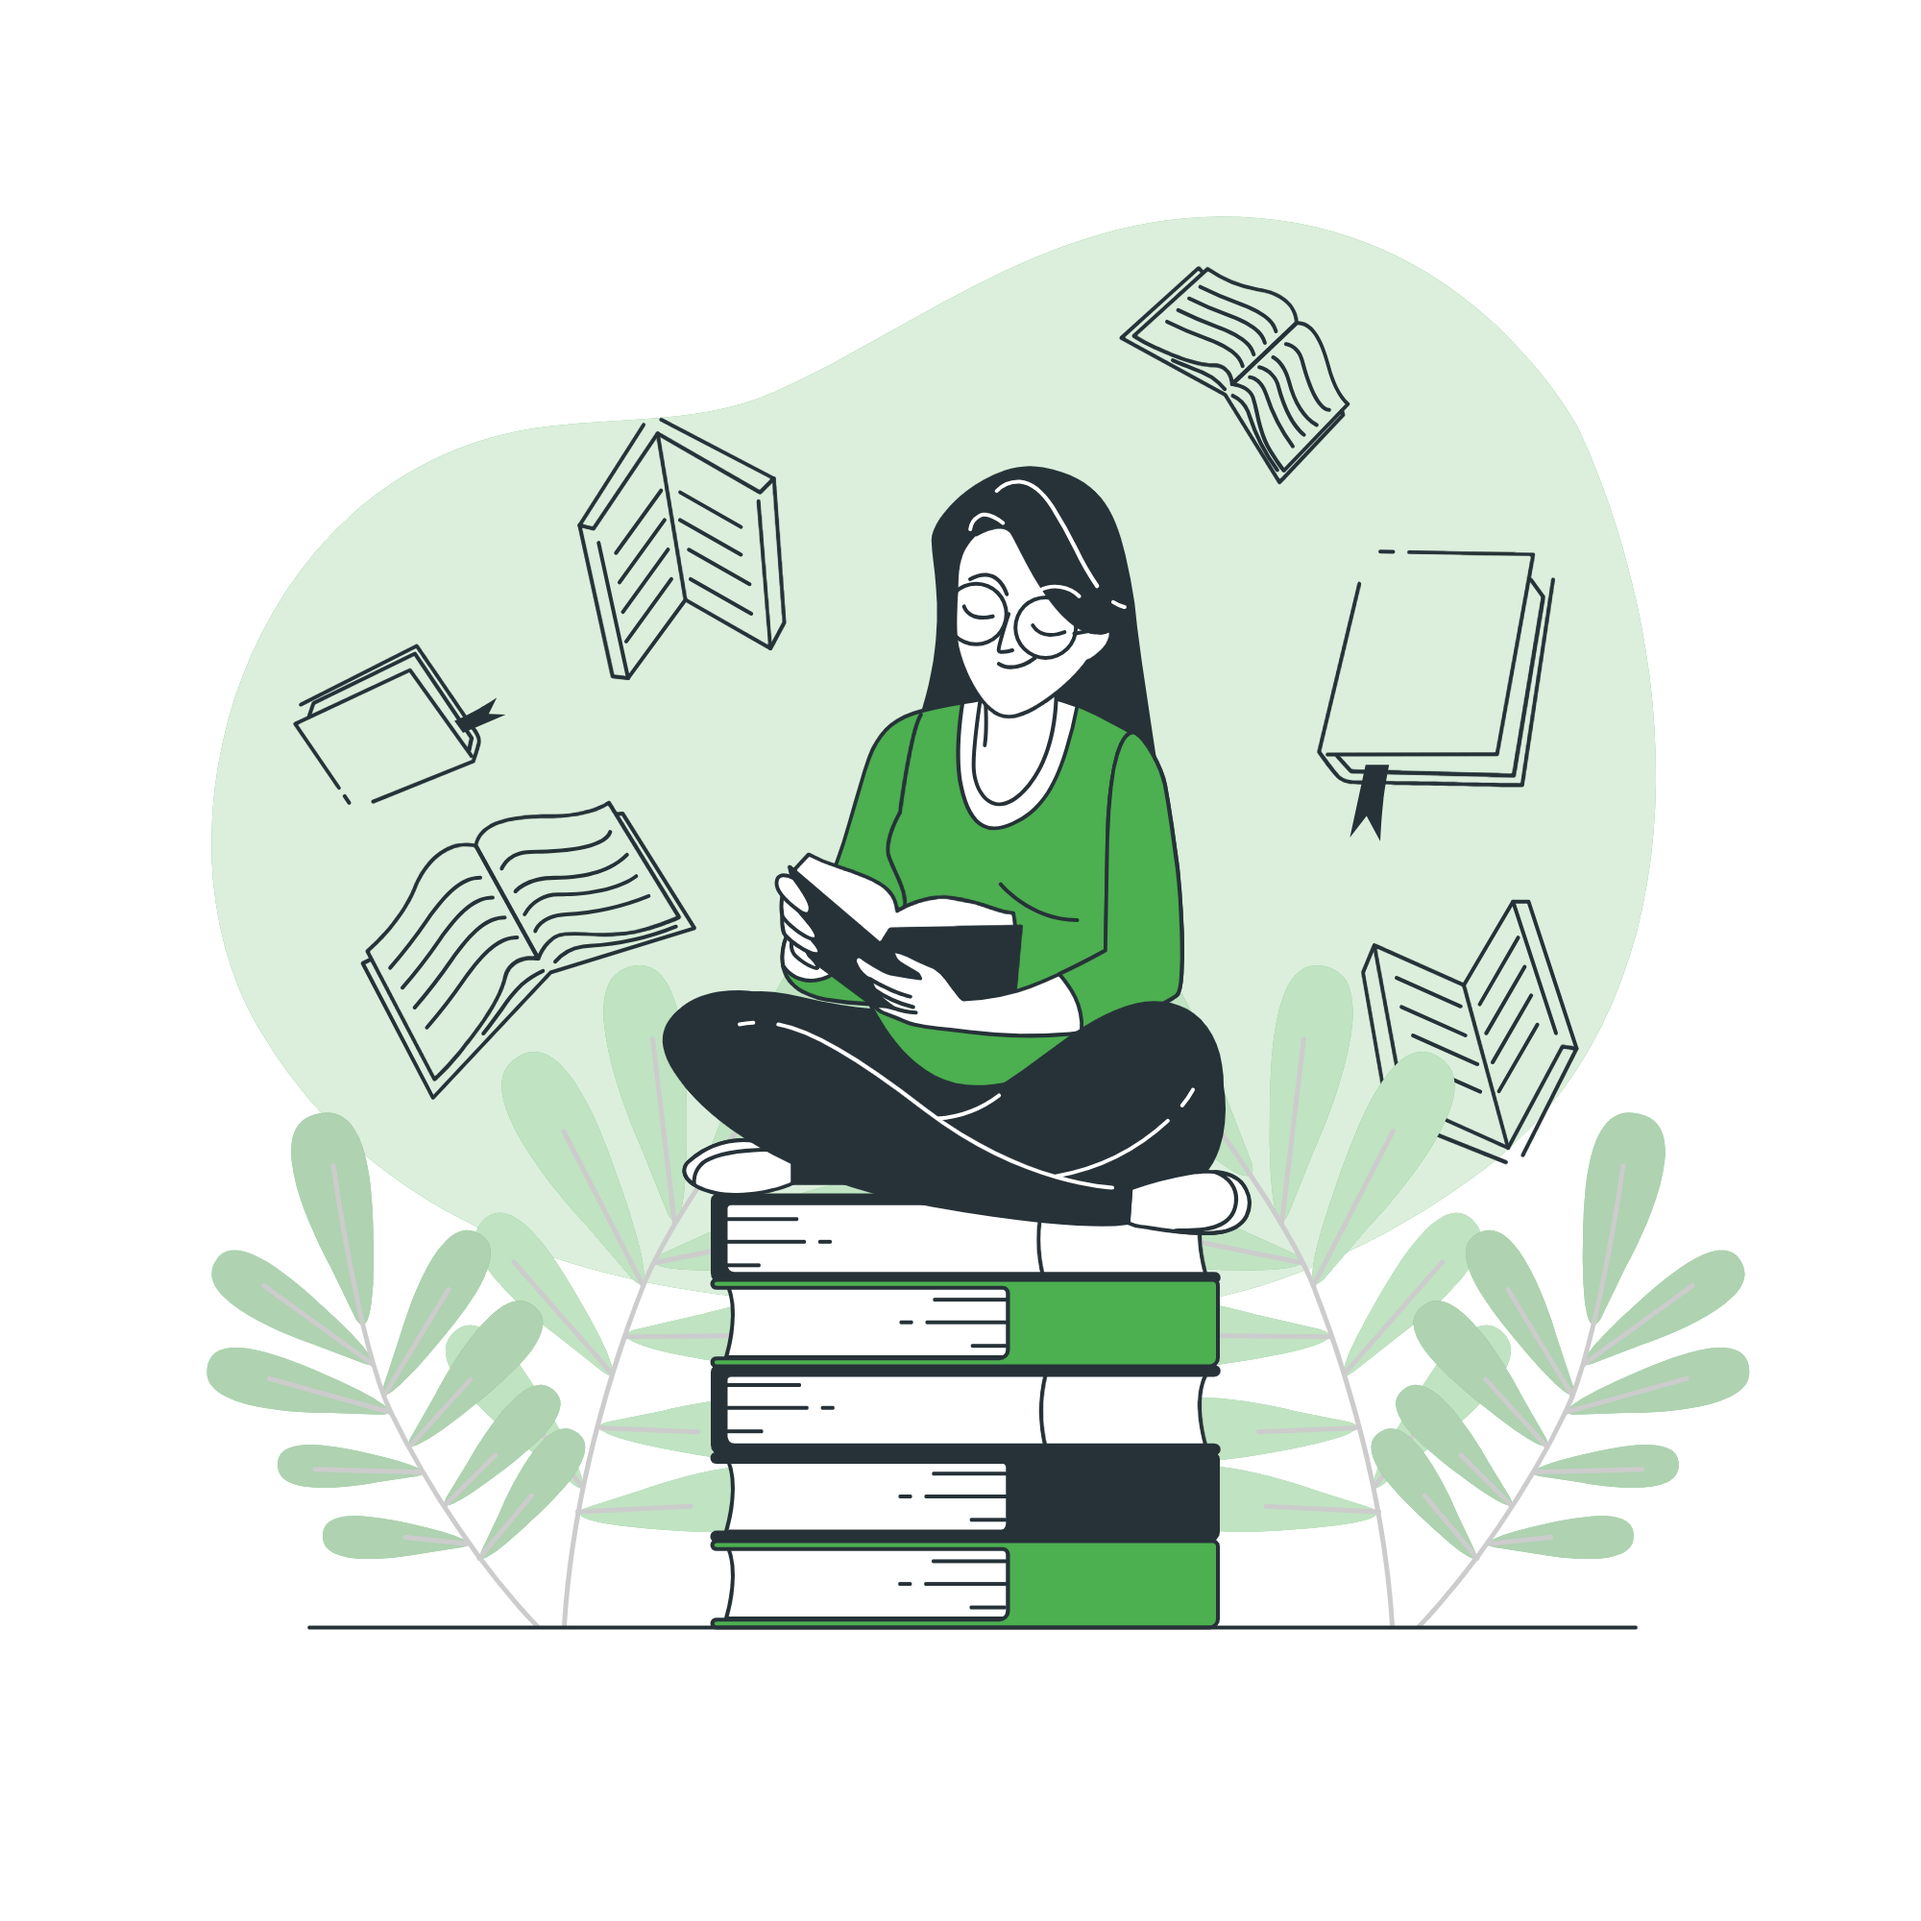
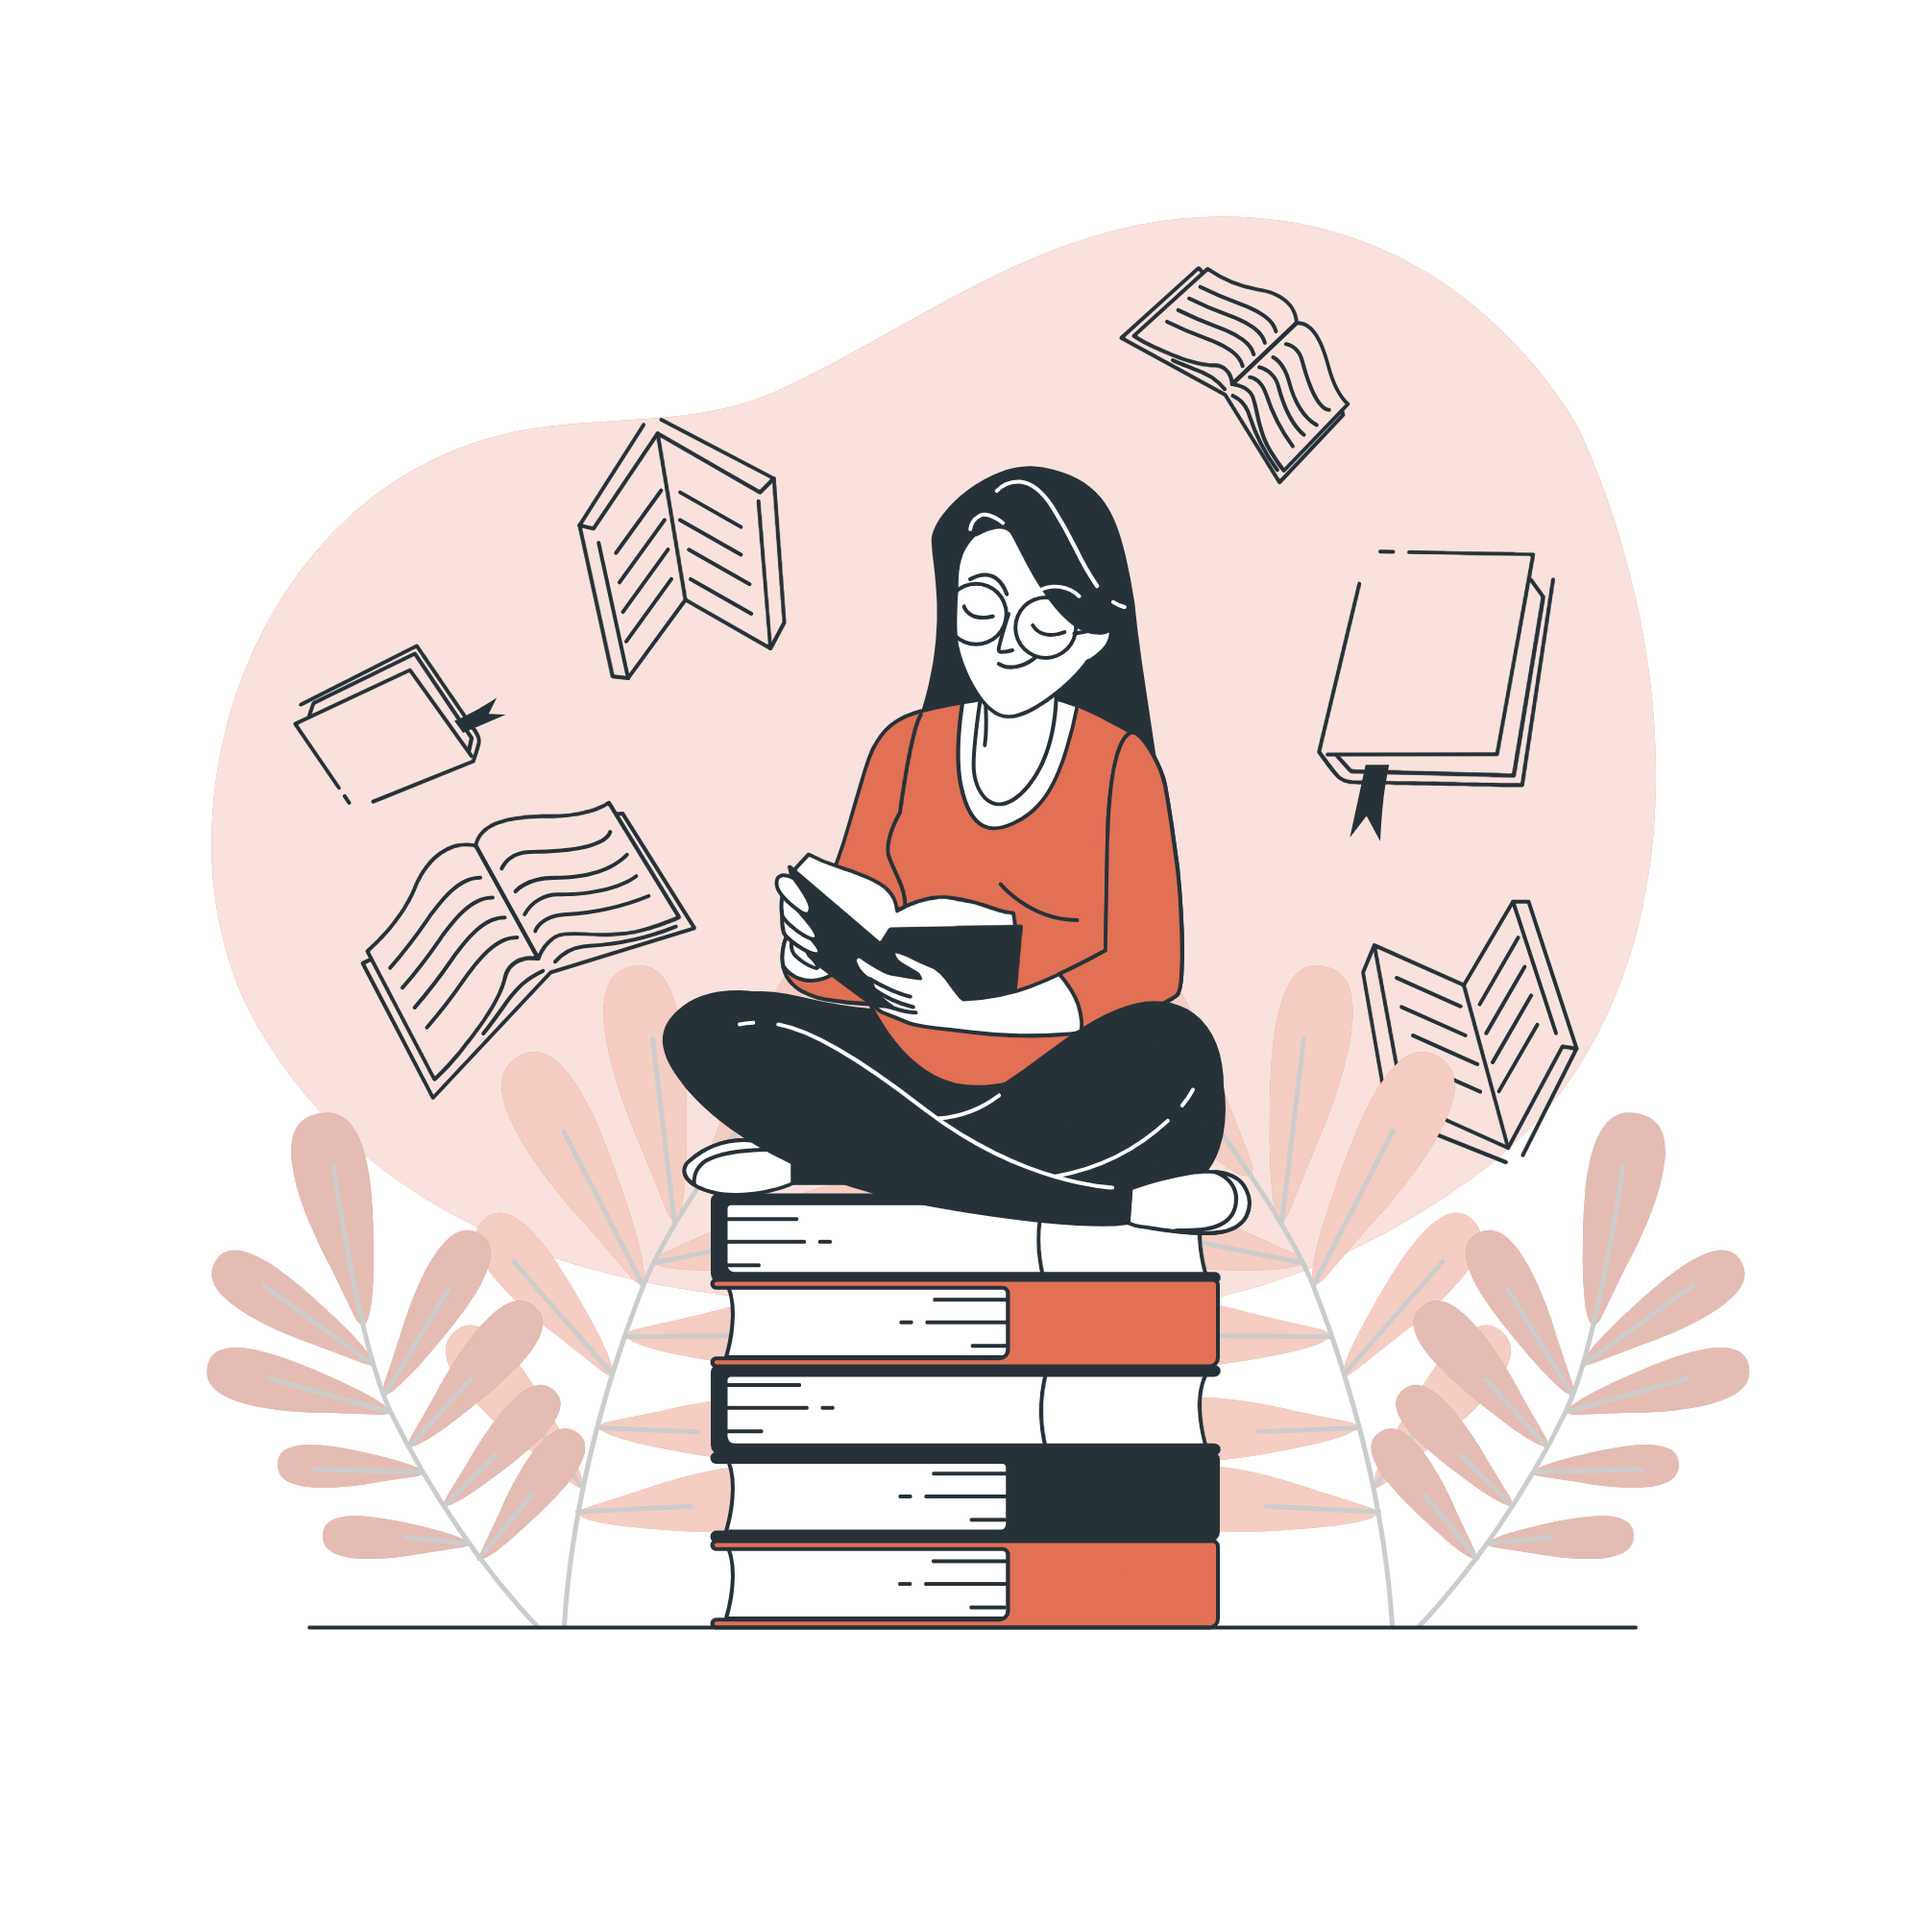
Enhance Signup and Login components: add username input, improve layout with KeyboardAvoidingView, and update placeholder texts for better user guidance

diff --git a/mobile/app/(auth)/signup.jsx b/mobile/app/(auth)/signup.jsx
@@ -1,10 +1,138 @@
-import { Text, View } from "react-native";
-import React from "react";
+import {
+  KeyboardAvoidingView,
+  Platform,
+  Text,
+  TextInput,
+  TouchableOpacity,
+  View,
+} from "react-native";
+import styles from "../../assets/styles/signup.styles";
+import { useState } from "react";
+import COLORS from "../../constants/colors";
+import { Ionicons } from "@expo/vector-icons";
+import { Link } from "expo-router";
 
 export default function Signup() {
+  const [email, setEmail] = useState("");
+  const [username, setUsername] = useState("");
+  const [password, setPassword] = useState("");
+  const [showPassword, setShowPassword] = useState(false);
+  const [isLoading, setIsLoading] = useState(false);
+
+  const handleSignup = () => {};
   return (
-    <View>
-      <Text>Signup</Text>
-    </View>
+    <KeyboardAvoidingView
+      style={{ flex: 1 }}
+      behavior={Platform.OS === "ios" ? "padding" : "height"}
+    >
+      <View style={styles.container}>
+        <View style={styles.card}>
+          <View style={styles.header}>
+            <Text style={styles.title}>BookiFy 📖</Text>
+            <Text style={styles.subtitle}>Share your favourite reads.</Text>
+          </View>
+
+          <View style={styles.formContainer}>
+            {/* username input */}
+
+            <View style={styles.inputGroup}>
+              <Text style={styles.label}>Username</Text>
+              <View style={styles.inputContainer}>
+                <Ionicons
+                  name="person-outline"
+                  size={20}
+                  color={COLORS.primary}
+                  style={styles.inputIcon}
+                />
+                <TextInput
+                  style={styles.input}
+                  placeholder="Jhon Doe"
+                  placeholderTextColor={COLORS.placeholderText}
+                  value={username}
+                  onChangeText={setUsername}
+                  keyboardType="email-address"
+                  autoCapitalize="none"
+                />
+              </View>
+            </View>
+
+            {/* email input */}
+            <View style={styles.inputGroup}>
+              <Text style={styles.label}>Email</Text>
+              <View style={styles.inputContainer}>
+                <Ionicons
+                  name="mail-outline"
+                  size={20}
+                  color={COLORS.primary}
+                  style={styles.inputIcon}
+                />
+                <TextInput
+                  style={styles.input}
+                  placeholder="example@anymail.com"
+                  placeholderTextColor={COLORS.placeholderText}
+                  value={email}
+                  onChangeText={setEmail}
+                  keyboardType="email-address"
+                  autoCapitalize="none"
+                />
+              </View>
+            </View>
+            {/* password field */}
+            <View style={styles.inputGroup}>
+              <Text style={styles.label}>Password</Text>
+              <View style={styles.inputContainer}>
+                <Ionicons
+                  name="lock-closed-outline"
+                  size={20}
+                  color={COLORS.primary}
+                  style={styles.inputIcon}
+                />
+                <TextInput
+                  style={styles.input}
+                  placeholder="**********"
+                  placeholderTextColor={COLORS.placeholderText}
+                  value={password}
+                  onChangeText={setPassword}
+                  secureTextEntry={!showPassword}
+                />
+
+                <TouchableOpacity
+                  onPress={() => setShowPassword(!showPassword)}
+                  style={styles.eyeIcon}
+                >
+                  <Ionicons
+                    name={showPassword ? "eye-outline" : "eye-off-outline"}
+                    size={20}
+                    color={COLORS.primary}
+                  />
+                </TouchableOpacity>
+              </View>
+            </View>
+
+            <TouchableOpacity
+              style={styles.button}
+              onPress={handleSignup}
+              disabled={isLoading}
+            >
+              {isLoading ? (
+                <ActivityIndicator color="#fff" />
+              ) : (
+                <Text style={styles.buttonText}>Sign Up</Text>
+              )}
+            </TouchableOpacity>
+          </View>
+          {/* Footer */}
+          <View style={styles.footer}>
+            <Text style={styles.footerText}>Already have an account?</Text>
+
+            <Link href="/(auth)" asChild>
+              <TouchableOpacity>
+                <Text style={styles.link}>Login</Text>
+              </TouchableOpacity>
+            </Link>
+          </View>
+        </View>
+      </View>
+    </KeyboardAvoidingView>
   );
 }

diff --git a/mobile/constants/colors.js b/mobile/constants/colors.js
@@ -1,67 +1,64 @@
 // FOREST
+// const COLORS = {
+//   primary: "#4CAF50",
+//   textPrimary: "#2e5a2e",
+//   textSecondary: "#688f68",
+//   textDark: "#1b361b",
+//   placeholderText: "#767676",
+//   background: "#e8f5e9",
+//   cardBackground: "#f1f8f2",
+//   inputBackground: "#f4faf5",
+//   border: "#c8e6c9",
+//   white: "#ffffff",
+//   black: "#000000",
+// };
+
+// RETRO
+
 const COLORS = {
-  primary: "#4CAF50",
-  textPrimary: "#2e5a2e",
-  textSecondary: "#688f68",
-  textDark: "#1b361b",
+  primary: "#e17055",
+  textPrimary: "#784e2d",
+  textSecondary: "#a58e7c",
+  textDark: "#50372a",
   placeholderText: "#767676",
-  background: "#e8f5e9",
-  cardBackground: "#f1f8f2",
-  inputBackground: "#f4faf5",
-  border: "#c8e6c9",
+  background: "#ede1d1",
+  cardBackground: "#faf5eb",
+  inputBackground: "#f7f2ea",
+  border: "#e2d6c1",
   white: "#ffffff",
   black: "#000000",
 };
 
-// RETRO
-/*
-  const COLORS = {
-    primary: "#e17055",
-    textPrimary: "#784e2d",
-    textSecondary: "#a58e7c",
-    textDark: "#50372a",
-    placeholderText: "#767676",
-    background: "#ede1d1",
-    cardBackground: "#faf5eb",
-    inputBackground: "#f7f2ea",
-    border: "#e2d6c1",
-    white: "#ffffff",
-    black: "#000000",
-  };
-  */
-
 // OCEAN
-/*
-  const COLORS = {
-    primary: "#1976D2", 
-    textPrimary: "#1a4971",
-    textSecondary: "#6d93b8", 
-    textDark: "#0d2b43", 
-    placeholderText: "#767676",
-    background: "#e3f2fd", 
-    cardBackground: "#f5f9ff",
-    inputBackground: "#f0f8ff", 
-    border: "#bbdefb",
-    white: "#ffffff",
-    black: "#000000",
-  };
-  */
+
+// const COLORS = {
+//   primary: "#1976D2",
+//   textPrimary: "#1a4971",
+//   textSecondary: "#6d93b8",
+//   textDark: "#0d2b43",
+//   placeholderText: "#767676",
+//   background: "#e3f2fd",
+//   cardBackground: "#f5f9ff",
+//   inputBackground: "#f0f8ff",
+//   border: "#bbdefb",
+//   white: "#ffffff",
+//   black: "#000000",
+// };
 
 // BLOSSOM
-/*
-  const COLORS = {
-    primary: "#EC407A", 
-    textPrimary: "#7d2150", 
-    textSecondary: "#b06a8f", 
-    textDark: "#5a1836", 
-    placeholderText: "#767676",
-    background: "#fce4ec", 
-    cardBackground: "#fff5f8", 
-    inputBackground: "#fef8fa", 
-    border: "#f8bbd0",
-    white: "#ffffff",
-    black: "#000000",
-  };
-  */
+
+// const COLORS = {
+//   primary: "#EC407A",
+//   textPrimary: "#7d2150",
+//   textSecondary: "#b06a8f",
+//   textDark: "#5a1836",
+//   placeholderText: "#767676",
+//   background: "#fce4ec",
+//   cardBackground: "#fff5f8",
+//   inputBackground: "#fef8fa",
+//   border: "#f8bbd0",
+//   white: "#ffffff",
+//   black: "#000000",
+// };
 
 export default COLORS;

diff --git a/mobile/app/(auth)/index.jsx b/mobile/app/(auth)/index.jsx
@@ -54,7 +54,7 @@ export default function Login() {
                 />
                 <TextInput
                   style={styles.input}
-                  placeholder="Enter your email"
+                  placeholder="example@anymail.com"
                   placeholderTextColor={COLORS.placeholderText}
                   value={email}
                   onChangeText={setEmail}
@@ -74,7 +74,7 @@ export default function Login() {
                 />
                 <TextInput
                   style={styles.input}
-                  placeholder="Enter your password"
+                  placeholder="**********"
                   placeholderTextColor={COLORS.placeholderText}
                   value={password}
                   onChangeText={setPassword}
